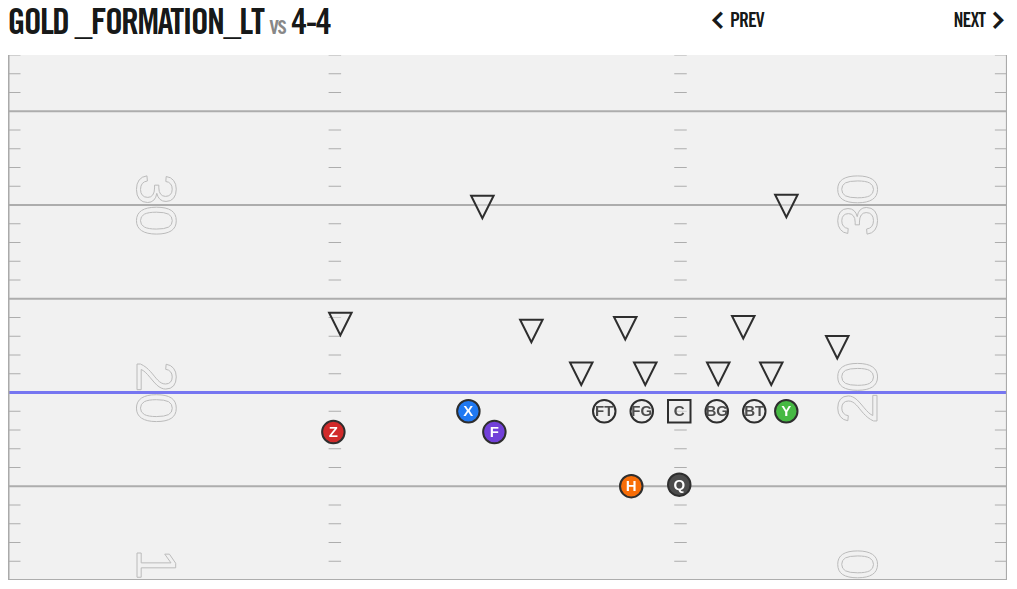
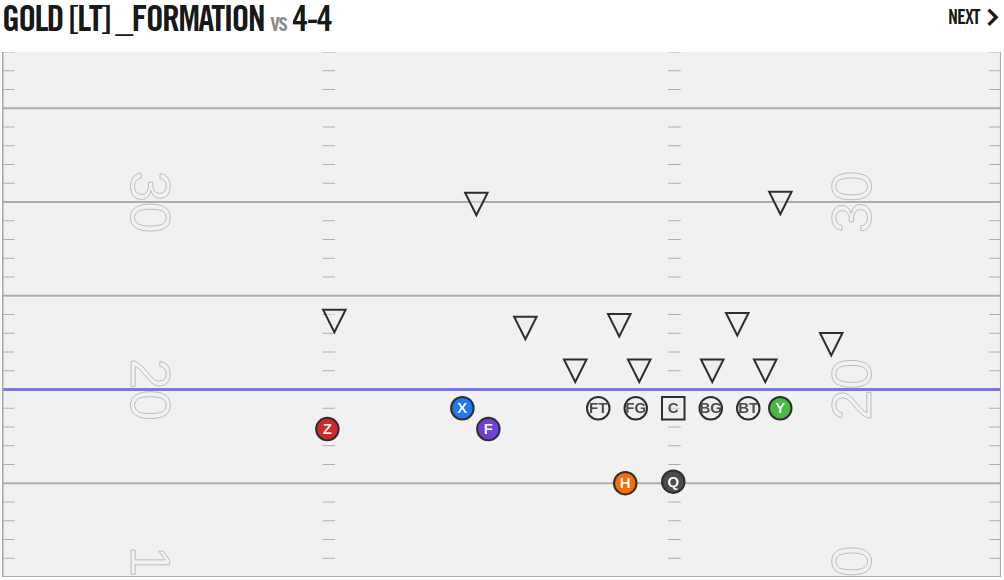
Add Left/Right diagram variants for every play and refresh formation images
Every play now shows Field Left and Field Right diagrams for both Maroon and
Gold, replacing the old single (always-Right) image per formation. Formation
reference images regenerated from the same updated diagram tool.

diff --git a/content/offense/plays/sweep.md b/content/offense/plays/sweep.md
@@ -8,7 +8,13 @@ Concept: SWEEP — pin-and-pull. Covered `pin`, uncovered `pull`. First puller `
 
 Maroon F Sweep X Bubble
 
-![[sweep-maroon.png]]
+### Field Left
+
+![[sweep-maroon-left.png]]
+
+### Field Right
+
+![[sweep-maroon-right.png]]
 
 - **Y**: Exception to the OL rule — if he can reach block the EMOL with an outside shade, he does that instead. If not, the same pull rule applies to him too.
 - **BT / BG / C / FG / FT**: Check your backside gap. Someone there? Down block him. Nobody there? You pull. First one out kicks the first different-colored jersey outside. Second one out wraps around him and cuts off whatever pursuit shows next.
@@ -22,7 +28,13 @@ Maroon F Sweep X Bubble
 
 Gold H Sweep F Bubble
 
-![[sweep-gold.png]]
+### Field Left
+
+![[sweep-gold-left.png]]
+
+### Field Right
+
+![[sweep-gold-right.png]]
 
 Everyone does the exact same job as Maroon on the OL — Y and BT, BG, C, FG, FT are unchanged. Z is also unchanged.
 

diff --git a/content/offense/plays/sprint.md b/content/offense/plays/sprint.md
@@ -12,7 +12,13 @@ Designed QB run — no handoff, no pass option. Q always keeps and runs it. Eith
 
 Maroon ZMO QB Sprint
 
-![[sprint-maroon.png]]
+### Field Left
+
+![[sprint-maroon-left.png]]
+
+### Field Right
+
+![[sprint-maroon-right.png]]
 
 - **Y**: Blocks the backside EMOL/DE, protects the edge away from the sprint.
 - **BT / BG / C / FG / FT**: Gap-on-linebacker. Man in the gap away from the play, down block him. Man on you head up, reach and turn him. Nobody on you, climb and cut off a linebacker you can reach, usually the one further away.
@@ -26,7 +32,13 @@ Maroon ZMO QB Sprint
 
 Gold QB Sprint
 
-![[sprint-gold.png]]
+### Field Left
+
+![[sprint-gold-left.png]]
+
+### Field Right
+
+![[sprint-gold-right.png]]
 
 - **Q**: No motion call needed — F is already aligned to crack. Keeps and sprints out around the perimeter behind H.
 - **Y / BT / BG / C / FG / FT / H / X**: Unchanged from Maroon.

diff --git a/content/offense/plays/counter.md b/content/offense/plays/counter.md
@@ -8,7 +8,13 @@ Concept: GT COUNTER — Q keeps, guard and tackle pull. Terms: [[coaches/coach-o
 
 Maroon QB Counter(GT)
 
-![[counter-maroon.png]]
+### Field Left
+
+![[counter-maroon-left.png]]
+
+### Field Right
+
+![[counter-maroon-right.png]]
 
 - **Y**: BT and BG both pull away from him, so he protects the gap they vacate — steps down inside, seals it, doesn't let anyone spill through behind the pullers.
 - **BT**: Pulls. Second puller — wraps up through the hole to the backside linebacker.
@@ -26,7 +32,13 @@ Maroon QB Counter(GT)
 
 Gold QB Counter(GT)
 
-![[counter-gold.png]]
+### Field Left
+
+![[counter-gold-left.png]]
+
+### Field Right
+
+![[counter-gold-right.png]]
 
 Everyone does the exact same job as Maroon — Y, BT, BG, C, FG, FT, H, X, and Z are unchanged. Only F is different, because he's a receiver in Gold instead of a second back.
 

diff --git a/content/offense/plays/duo.md b/content/offense/plays/duo.md
@@ -10,7 +10,13 @@ Default is the handoff to H — F's bubble is only thrown if the coach signals i
 
 Maroon H Duo / F Bubble
 
-![[duo-maroon.png]]
+### Field Left
+
+![[duo-maroon-left.png]]
+
+### Field Right
+
+![[duo-maroon-right.png]]
 
 Against a 4-man front this comes out to two clean double teams: BT+BG on the boundary DT, C+FG on the field DT. Y and FT aren't part of either double — they take the two EMOL/DEs on their outside shade instead.
 
@@ -30,7 +36,13 @@ Against a 4-man front this comes out to two clean double teams: BT+BG on the bou
 
 Gold H Duo / F Bubble
 
-![[duo-gold.png]]
+### Field Left
+
+![[duo-gold-left.png]]
+
+### Field Right
+
+![[duo-gold-right.png]]
 
 Everyone does the exact same job as Maroon — Y, BT, BG, C, FG, FT, Q, H, X, and Z are unchanged. F's job doesn't even change here, just his starting point.
 

diff --git a/content/offense/plays/stick.md b/content/offense/plays/stick.md
@@ -8,7 +8,13 @@ Concept: STICK — quick-game pass, uses the SLANTS protection rule. Terms: [[co
 
 Maroon Stick
 
-![[stick-maroon.png]]
+### Field Left
+
+![[stick-maroon-left.png]]
+
+### Field Right
+
+![[stick-maroon-right.png]]
 
 - **Y**: Runs a 5-yard out, pulling up at the sidewalk instead of running out of bounds.
 - **BT / BG / C / FG / FT**: Pass block. Man on you, punch and sit. Nobody on you, help the man next to you toward the middle.
@@ -24,7 +30,13 @@ Note: this play can also be called max protect, keeping Y and H in to pass block
 
 Gold Stick
 
-![[stick-gold.png]]
+### Field Left
+
+![[stick-gold-left.png]]
+
+### Field Right
+
+![[stick-gold-right.png]]
 
 Everyone does the exact same job as Maroon — Y, BT, BG, C, FG, FT, Q, H, X, and Z are unchanged.
 

diff --git a/content/offense/plays/snag.md b/content/offense/plays/snag.md
@@ -8,7 +8,13 @@ Concept: SNAG — quick-game pass, same as Stick with X and Z swapped. Terms: [[
 
 Maroon Snag
 
-![[snag-maroon.png]]
+### Field Left
+
+![[snag-maroon-left.png]]
+
+### Field Right
+
+![[snag-maroon-right.png]]
 
 - **Y**: Runs a 5-yard out, pulling up at the sidewalk instead of running out of bounds.
 - **BT / BG / C / FG / FT**: Pass block. Man on you, punch and sit. Nobody on you, help the man next to you toward the middle.
@@ -24,7 +30,13 @@ Note: this play can also be called max protect, keeping Y and H in to pass block
 
 Gold Snag
 
-![[snag-gold.png]]
+### Field Left
+
+![[snag-gold-left.png]]
+
+### Field Right
+
+![[snag-gold-right.png]]
 
 Everyone does the exact same job as Maroon — Y, BT, BG, C, FG, FT, Q, H, X, and Z are unchanged.
 

diff --git a/content/offense/plays/slants.md b/content/offense/plays/slants.md
@@ -8,7 +8,13 @@ Concept: SLANTS — pass block, ball out fast. Terms: [[coaches/coach-one-pager|
 
 Maroon Slants
 
-![[slants-maroon.png]]
+### Field Left
+
+![[slants-maroon-left.png]]
+
+### Field Right
+
+![[slants-maroon-right.png]]
 
 - **Y**: Runs a 5-yard out, pulling up at the sidewalk instead of running out of bounds.
 - **BT / BG / C / FG / FT**: Pass block. Man on you, punch and sit. Nobody on you, help the man next to you toward the middle.
@@ -22,7 +28,13 @@ Maroon Slants
 
 Gold Slants
 
-![[slants-gold.png]]
+### Field Left
+
+![[slants-gold-left.png]]
+
+### Field Right
+
+![[slants-gold-right.png]]
 
 Everyone does the exact same job as Maroon — Y, BT, BG, C, FG, FT, Q, H, X, and Z are unchanged.
 

diff --git a/content/offense/plays/trap.md b/content/offense/plays/trap.md
@@ -10,7 +10,13 @@ Default is the handoff to H — F's bubble (Maroon) and Q's keep (Gold) only hap
 
 Maroon H Trap / F Bubble
 
-![[trap-maroon.png]]
+### Field Left
+
+![[trap-maroon-left.png]]
+
+### Field Right
+
+![[trap-maroon-right.png]]
 
 - **Y**: Seals the edge, blocking the playside EMOL/DE.
 - **BT**: Playside — climbs immediately to the playside linebacker, cutting him off.
@@ -28,7 +34,13 @@ Maroon H Trap / F Bubble
 
 Gold H Trap / QB Keep
 
-![[trap-gold.png]]
+### Field Left
+
+![[trap-gold-left.png]]
+
+### Field Right
+
+![[trap-gold-right.png]]
 
 Everyone does the exact same job as Maroon — Y, BT, BG, C, FG, FT, H, X, and Z are unchanged.
 
